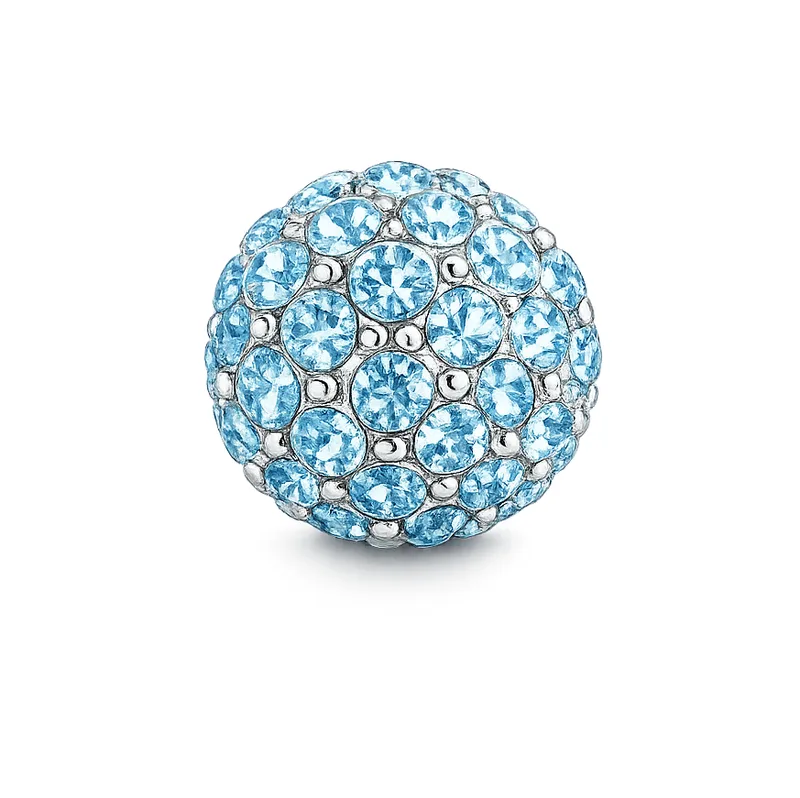
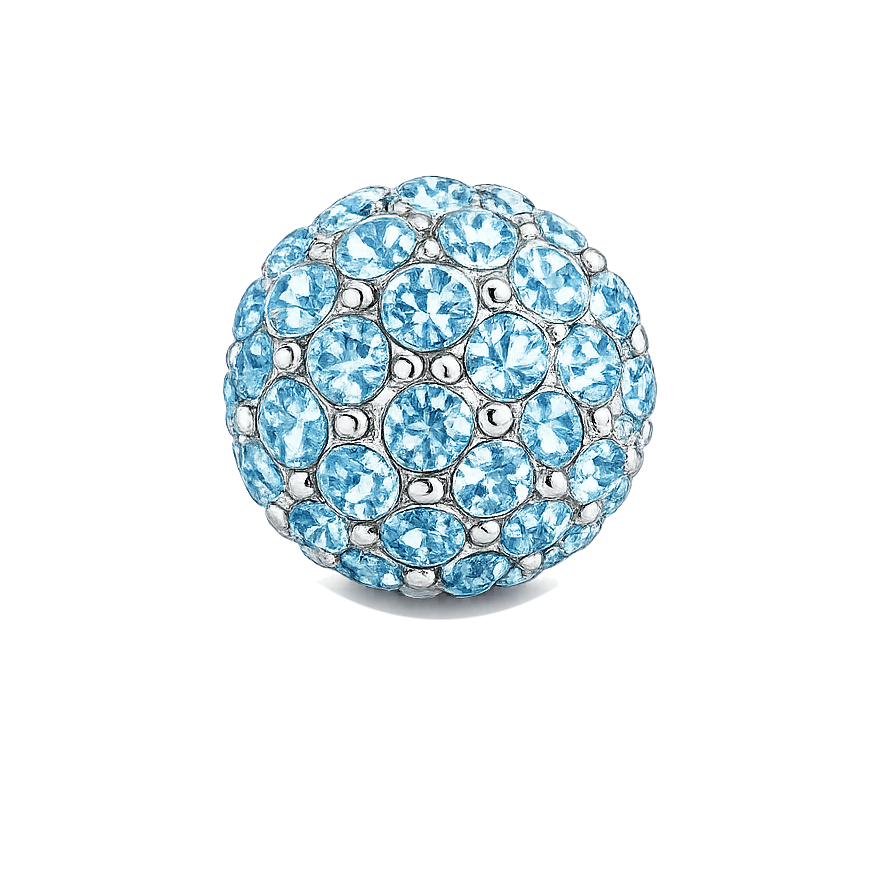
Fix Diamond Ball Blue render framing

diff --git a/data.js b/data.js
@@ -15,7 +15,7 @@ const CANONICAL_CATEGORY_LABELS = {
 export const CATALOG_LAYOUT_ORDER_STORAGE_KEY = "lucky_crm_catalog_layout_order";
 
 // Bump this when replacing catalog assets with the same filename so browsers/CDNs fetch the new file.
-export const ASSET_VERSION = "20260726-blue-diamond-ball";
+export const ASSET_VERSION = "20260804-blue-diamond-ball-normalized";
 
 function isLocalCatalogAssetUrl(imageUrl = "") {
   const value = String(imageUrl || "").trim();
